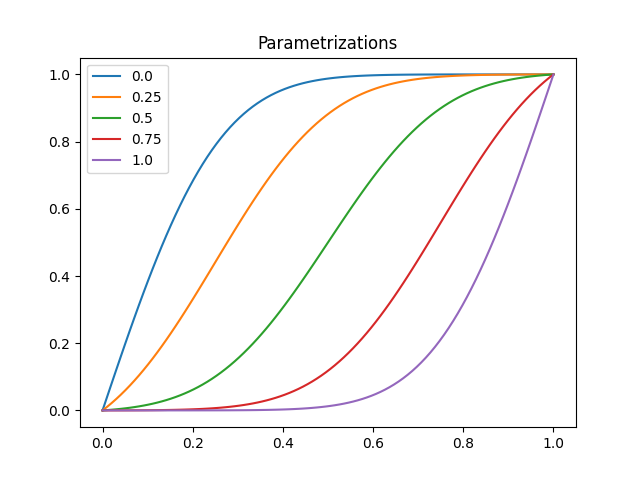
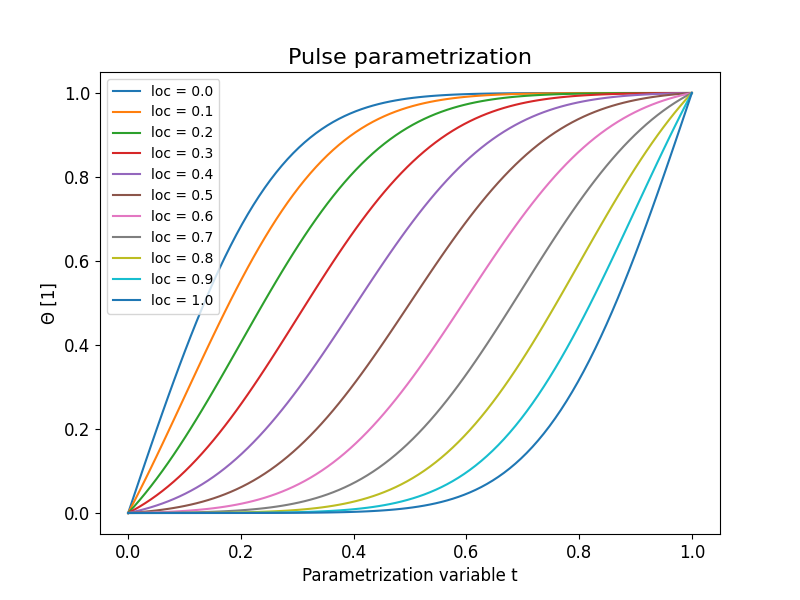
[workflow] Updated pulse plots.

diff --git a/src/pulses/visualizations.py b/src/pulses/visualizations.py
@@ -1,37 +1,46 @@
 import numpy as np
 import matplotlib.pyplot as plt
+import matplotlib as mpl
 
 
-def plot_pulses(pulse_lookup, filename: str=None):
+# We can use this reference: https://matplotlib.org/stable/tutorials/introductory/customizing.html
+mpl.rcParams['axes.titlesize'] = 16
+mpl.rcParams['axes.labelsize'] = 12
+mpl.rcParams['lines.linewidth'] = 1.5
+mpl.rcParams['lines.markersize'] = 12
+mpl.rcParams['xtick.labelsize'] = 12
+mpl.rcParams['ytick.labelsize'] = 12
+mpl.rcParams['legend.fontsize'] = "medium"
+
+
+def plot_pulses(pulse_lookup, filename: str=None, label_prefix: str=""):
     """ Plots the pulses on the interval [0,1].
     """
     x = np.linspace(0, 1, 100)
     for name, pulse in pulse_lookup.items():
         pulse = pulse.get_pulse()
         y = [pulse(x_val) for x_val in x]
-        plt.plot(x, y, label=str(name))
-    plt.xlabel('Parametrization variable s')
-    plt.ylabel("ω(s)")
-    plt.title("Pulse shape")
-    plt.ylabel("Θ(s)")
-    plt.title("Pulses")
+        plt.plot(x, y, label=f"{label_prefix}{name}")
+    plt.xlabel('Parametrization variable t')
+    plt.ylabel("s [1]")
+    plt.title("Pulse waveform")
     plt.legend()
     if filename is not None:
         plt.savefig(filename)
     plt.show()
 
 
-def plot_parametrizations(pulse_lookup, filename: str=None):
+def plot_parametrizations(pulse_lookup, filename: str=None, label_prefix: str=""):
     """ Plots the parametrizations on the interval [0,1].
     """
     x = np.linspace(0, 1, 100)
     for name, pulse in pulse_lookup.items():
         param = pulse.get_parametrization()
         y = [param(x_val) for x_val in x]
-        plt.plot(x, y, label=str(name))
-    plt.xlabel('Parametrization variable s')
-    plt.ylabel("Θ(s)")
-    plt.title("Pulse parametrization (cdf)")
+        plt.plot(x, y, label=f"{label_prefix}{name}")
+    plt.xlabel('Parametrization variable t')
+    plt.ylabel("Θ [1]")
+    plt.title("Pulse parametrization")
     plt.legend()
     if filename is not None:
         plt.savefig(filename)

diff --git a/main/simulate_pulse.py b/main/simulate_pulse.py
@@ -14,5 +14,5 @@ if __name__ == "__main__":
     plot_parametrizations(pulse_lookup, "plots/pulses/normal_parametrizations.png")
 
     print("Plot gaussian pulses")
-    plot_pulses(gaussian_pulse_lookup, "plots/pulses/gaussian_pulse.png")
-    plot_parametrizations(gaussian_pulse_lookup, "plots/pulses/gaussian_parametrizations.png")
+    plot_pulses(gaussian_pulse_lookup, "plots/pulses/gaussian_pulse.png", "loc = ")
+    plot_parametrizations(gaussian_pulse_lookup, "plots/pulses/gaussian_parametrizations.png", "loc = ")
